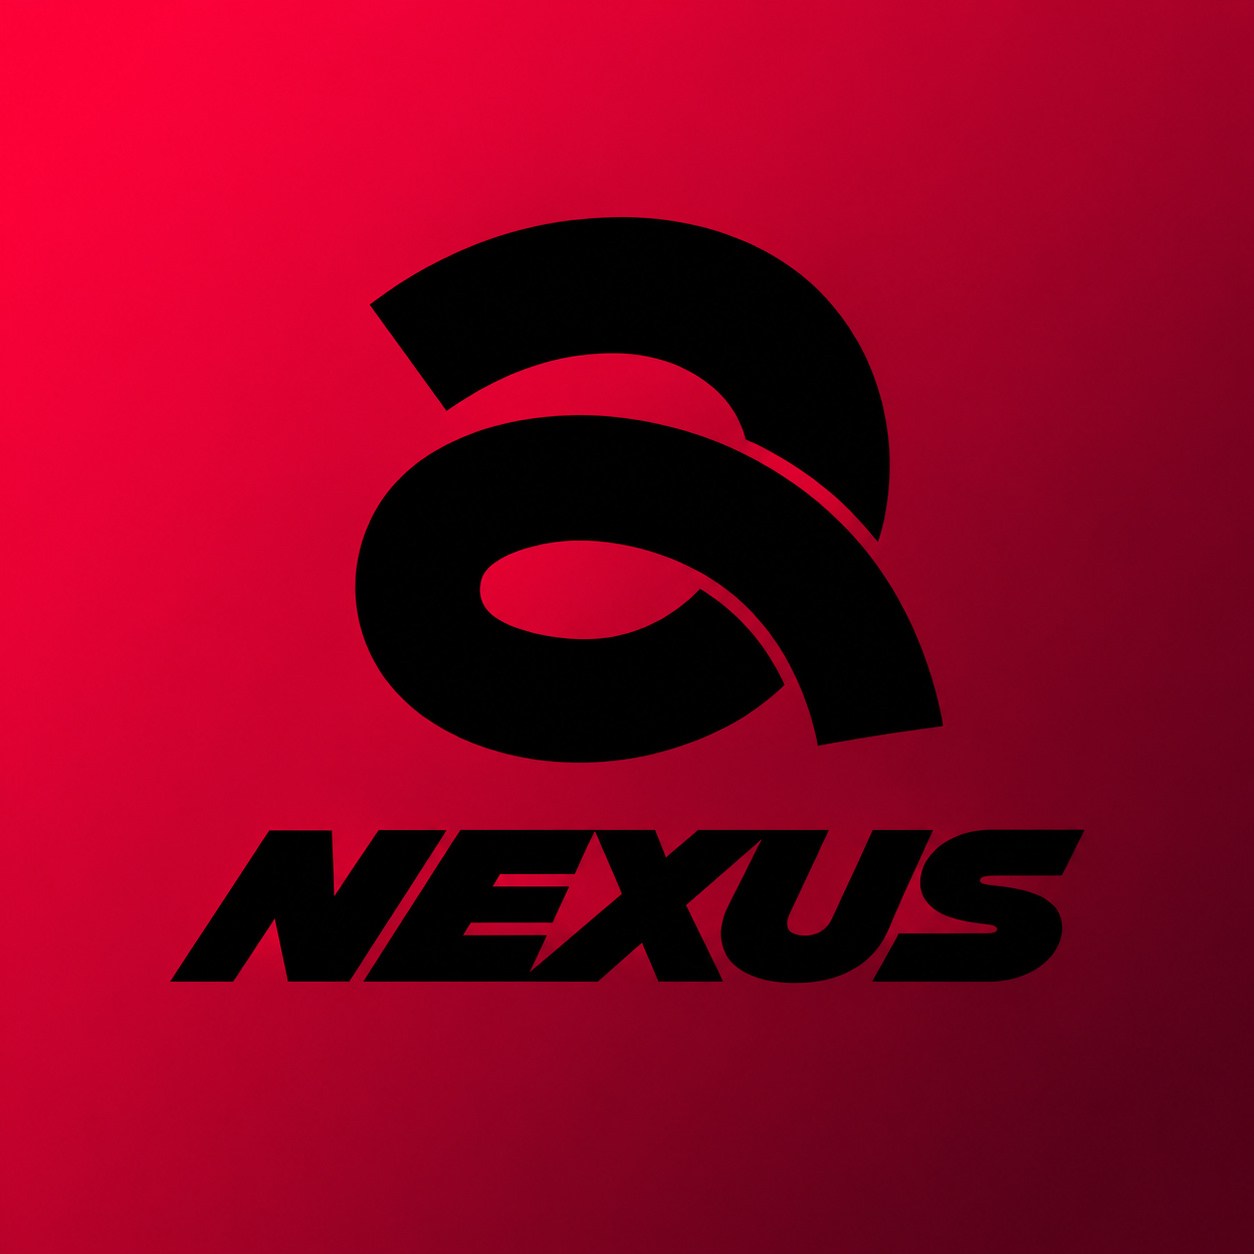
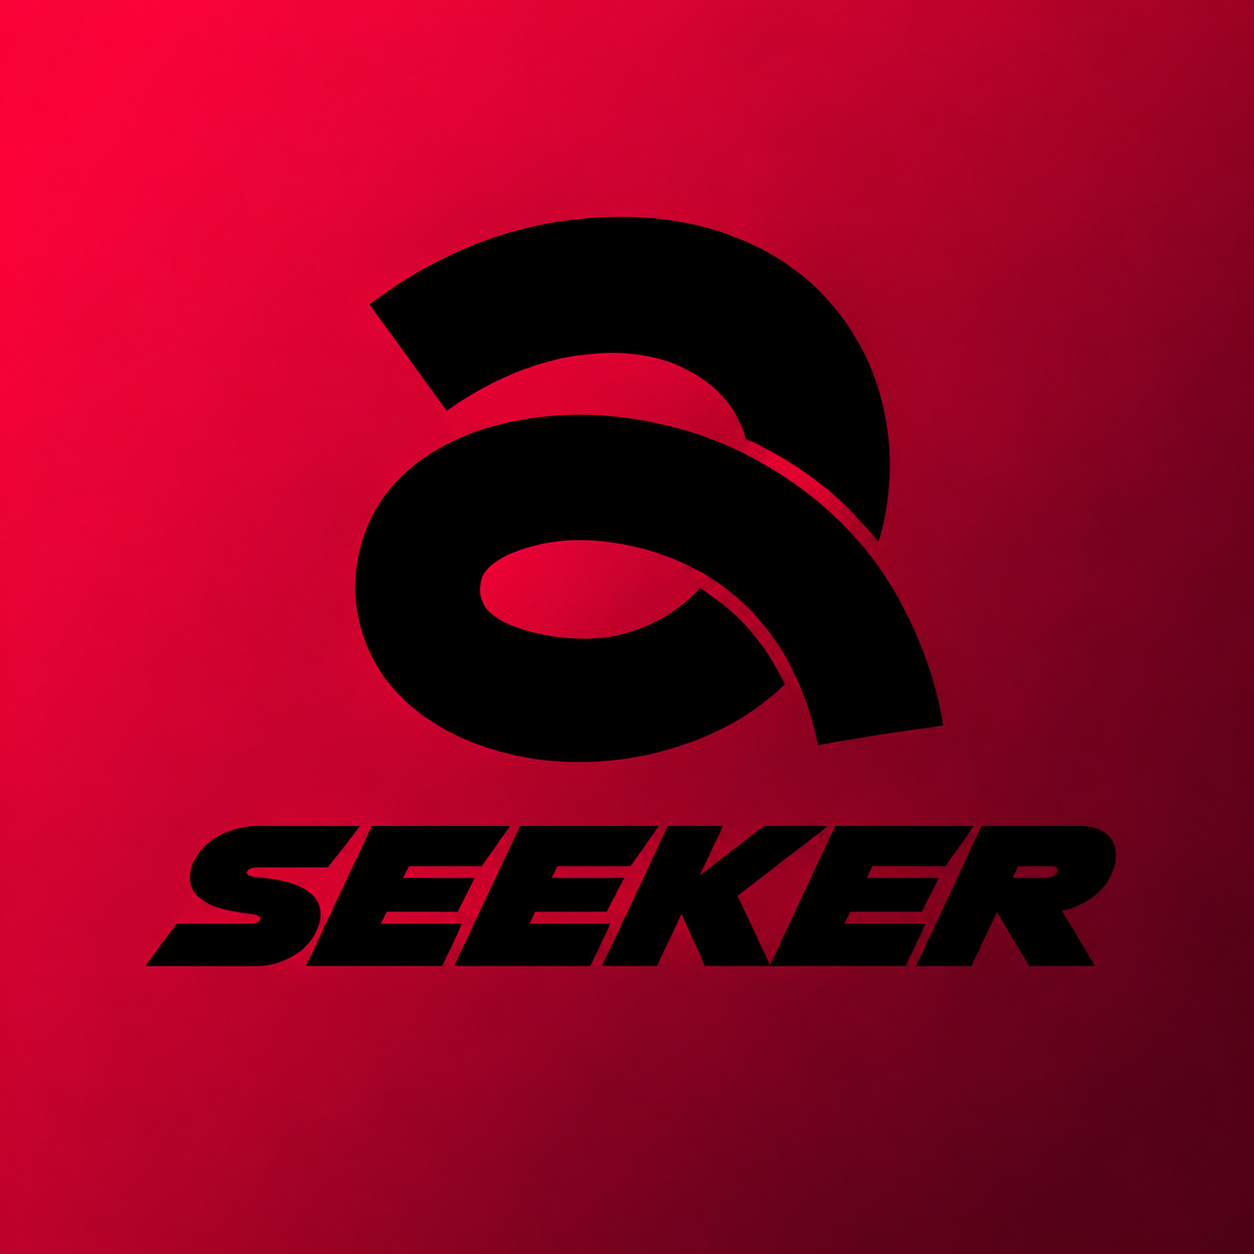
Correct thumbnail wordmark to Seeker and keep name fully visible

Changed region(s): [[0.1244, 0.6531, 0.9019, 0.8086]]

diff --git a/index.html b/index.html
@@ -6,7 +6,7 @@
 <section class="hero wrap" aria-labelledby="hero-title"><h1 id="hero-title" class="hero-name"><span>ABHINAV</span> <span class="surname">PRASAD</span></h1><div class="hero-stage"><div class="hero-copy"><p class="eyebrow">DEVELOPER / DESIGNER / EXPLORER</p><h2>Ideas into <br>digital experiences.</h2><p>I build thoughtful websites for real businesses. Curious about AI. Inspired by what’s next.</p><a class="pill dark" href="#work">Explore my work <span>•</span></a></div><figure class="portrait-area"><img src="assets/portrait-cutout.png" alt="Abhinav Prasad" width="1254" height="1254" fetchpriority="high"></figure><div class="hero-aside"><span class="availability"><i></i> Open to new projects</span><a class="pill" href="#expertise">Web development <span>•</span></a><a class="pill" href="#expertise">UI / UX design <span>•</span></a><a class="pill" href="#about">AI & finance <span>•</span></a></div></div><div class="hero-bottom"><span>INDEPENDENT MIND. PURPOSEFUL WORK.</span><span>SCROLL TO EXPLORE •</span></div></section>
 <section class="section work-section" id="work"><div class="wrap"><div class="section-heading" data-reveal><span class="ghost" aria-hidden="true">PORTFOLIO</span><h2>/ MY PROJECTS</h2><span class="section-index">01</span></div><div class="projects">
 <article class="project" data-reveal data-project="1"><div class="project-description"><h3>Perzo — Personal AI Companion</h3><p>A mobile-first AI companion with NVIDIA-powered models, image understanding, screen-sharing assistance, and voice features. Built with Next.js, TypeScript, and Tailwind CSS, Perzo combines streaming chat with a Liquid Glass-inspired interface, with RAG integration planned for answering questions from personal documents.</p></div><a class="project-art perzo perzo-image-thumbnail" href="https://perzo.vercel.app/" target="_blank" rel="noopener noreferrer" aria-label="Visit Perzo (opens in a new tab)"><img class="perzo-thumbnail-image" src="assets/perzo-thumbnail.png" alt="Perzo logo with orange and purple gradient shapes" width="1536" height="1024" loading="lazy"><div class="perzo-preview"><span class="perzo-wordmark">Perzo<span>•</span></span><span class="perzo-domain">perzo.vercel.app</span></div></a><div class="project-info"><div><p>WEBSITE</p><h3>Perzo</h3></div><span>01</span></div><p class="project-note"><a class="project-link" href="https://perzo.vercel.app/" target="_blank" rel="noopener noreferrer" aria-label="View Perzo (opens in a new tab)">View project •</a></p></article>
-<article class="project" data-reveal data-project="2"><div class="project-description"><h3>Seeker — Local PDF RAG Chatbot</h3><p>Built a document question-answering application using Python, Streamlit, ChromaDB, and Ollama that lets users ask questions about their PDFs through a chat interface.</p><p>Seeker processes PDF content by splitting it into smaller, searchable text chunks and generating vector embeddings with <code>nomic-embed-text</code>, which ChromaDB stores for semantic search.</p><p>When a user asks a question, the app retrieves relevant passages and supplies them as context to a locally running Mistral model through Ollama, helping it generate answers grounded in the uploaded documents.</p><p>This retrieval-augmented generation (RAG) workflow combines document search with conversational AI while keeping document processing and model inference local.</p></div><div class="project-art seeker"><img class="seeker-thumbnail" src="assets/seeker-thumbnail.png" alt="Uploaded project thumbnail: black Nexus logo on a red gradient background" width="1254" height="1254" loading="lazy"></div><div class="project-info"><div><p>LOCAL AI / DOCUMENT Q&amp;A</p><h3>Seeker</h3></div><span>02</span></div><p class="project-note">Local project · Python / Streamlit / ChromaDB / Ollama</p></article>
+<article class="project" data-reveal data-project="2"><div class="project-description"><h3>Seeker — Local PDF RAG Chatbot</h3><p>Built a document question-answering application using Python, Streamlit, ChromaDB, and Ollama that lets users ask questions about their PDFs through a chat interface.</p><p>Seeker processes PDF content by splitting it into smaller, searchable text chunks and generating vector embeddings with <code>nomic-embed-text</code>, which ChromaDB stores for semantic search.</p><p>When a user asks a question, the app retrieves relevant passages and supplies them as context to a locally running Mistral model through Ollama, helping it generate answers grounded in the uploaded documents.</p><p>This retrieval-augmented generation (RAG) workflow combines document search with conversational AI while keeping document processing and model inference local.</p></div><div class="project-art seeker"><img class="seeker-thumbnail" src="assets/seeker-thumbnail.png" alt="Seeker logo in black on a red gradient background" width="1254" height="1254" loading="lazy"></div><div class="project-info"><div><p>LOCAL AI / DOCUMENT Q&amp;A</p><h3>Seeker</h3></div><span>02</span></div><p class="project-note">Local project · Python / Streamlit / ChromaDB / Ollama</p></article>
 <article class="project" data-reveal data-project="3"><div class="project-art clinic"><span class="preview-label">PROJECT SPACE / 03</span><div class="mock-browser"><div class="browser-bar"><span>● ● ●</span><span>HEALTHCARE / CONCEPT</span></div><div class="clinic-layout"><small>+ KINDRED CARE</small><b>Better care.<br><em>Closer to you.</em></b><span class="mini-button">YOUR HEALTH, FIRST •</span><div class="medical-cross" aria-hidden="true">+</div></div></div></div><div class="project-info"><div><p>HEALTHCARE & CLINICS</p><h3>Care-first clinic websites</h3></div><span>03</span></div><p class="project-note">Project showcase coming soon · Concept preview</p></article></div></div></section>
 <section class="section services wrap" id="expertise"><div class="section-heading" data-reveal><span class="ghost" aria-hidden="true">SERVICES</span><h2>/ WHAT I DO</h2><span class="section-index">02</span></div><div class="service-list" data-reveal><details class="service" open><summary><span>01</span><h3>UI / UX DESIGN</h3><span class="service-dot" aria-hidden="true">•</span></summary><div class="service-content"><p>Thoughtful interfaces, clear navigation, and visual details that make an experience feel effortless.</p><div class="interface-art" aria-hidden="true"><div><i></i><b></b><span></span><span></span></div><div><i></i><b></b><span></span><span></span></div><div><i></i><b></b><span></span><span></span></div></div><span class="service-tools">INTERFACES / EXPERIENCES</span></div></details><details class="service"><summary><span>02</span><h3>WEB DESIGN & DEV</h3><span class="service-dot" aria-hidden="true">•</span></summary><div class="service-content"><p>Responsive websites that introduce your business clearly and help visitors take the next step. Built for desktops, phones, and everything between.</p><span class="service-tools">PYTHON / JAVA / WEB</span></div></details><details class="service"><summary><span>03</span><h3>AI EXPLORATION</h3><span class="service-dot" aria-hidden="true">•</span></summary><div class="service-content"><p>Exploring how AI and large language models can support smarter digital tools and workflows. Bringing that curiosity into projects like Perzo.</p><span class="service-tools">AI / LLMS / CURIOSITY</span></div></details></div></section>
 <section class="about-section section" id="about"><div class="wrap"><div class="section-heading" data-reveal><span class="ghost" aria-hidden="true">BACKGROUND</span><h2><span class="about-slash" aria-hidden="true">/</span> <span class="about-word">ABOUT</span> <span class="about-word">ME</span></h2><span class="section-index">03</span></div><div class="about-grid" data-reveal><div><h3 class="about-name">Abhinav Prasad</h3><p class="large-copy">A developer’s mindset.<br>A designer’s eye.<br>A curiosity for finance.</p></div><div class="about-copy"><p>I’m a web developer and UI/UX designer who enjoys turning an idea into something people can actually use.</p><p>I’ve created websites for 30+ clients, including gyms, real estate brokers, and clinics. My approach brings together clear design, practical development, and an understanding of the business behind the screen.</p><p>Beyond the web, I’m exploring large language models and AI. I’m also pursuing ACCA and BComF, building a foundation in accounting and finance alongside my technical work.</p></div></div><div class="background-list"><div class="background-row" data-reveal><div><h3>Web development & design</h3><p>Gyms, real estate brokers & clinics</p></div><span>30+ clients</span></div><div class="background-row" data-reveal><div><h3>Artificial intelligence</h3><p>Large language models & intelligent experiences</p></div><span>Exploring</span></div><div class="background-row" data-reveal><div><h3>Accounting & finance</h3><p>ACCA & BComF</p></div><span>Pursuing</span></div></div></div></section>

diff --git a/styles.css b/styles.css
@@ -1283,9 +1283,9 @@ only opacity and transforms animate. */
 .hero-copy > p:not(.eyebrow), .contact-inner > p:not(.eyebrow), .project-note { color:#000; }
 .about-section .section-index { color:#fff; }
 
-/* Crop the square Seeker artwork into the same wide frame as Perzo. */
+/* Fit the Seeker wordmark inside the same frame as Perzo throughout the reveal. */
 .seeker { background:#b6002b; }
-.seeker-thumbnail { width:100%; height:100%; object-fit:cover; object-position:center; }
+.seeker-thumbnail { width:100%; height:100%; object-fit:contain; object-position:center; }
 .project-description p + p { margin-top:12px; }
 .project-description code { font-size:.95em; overflow-wrap:anywhere; }
 
